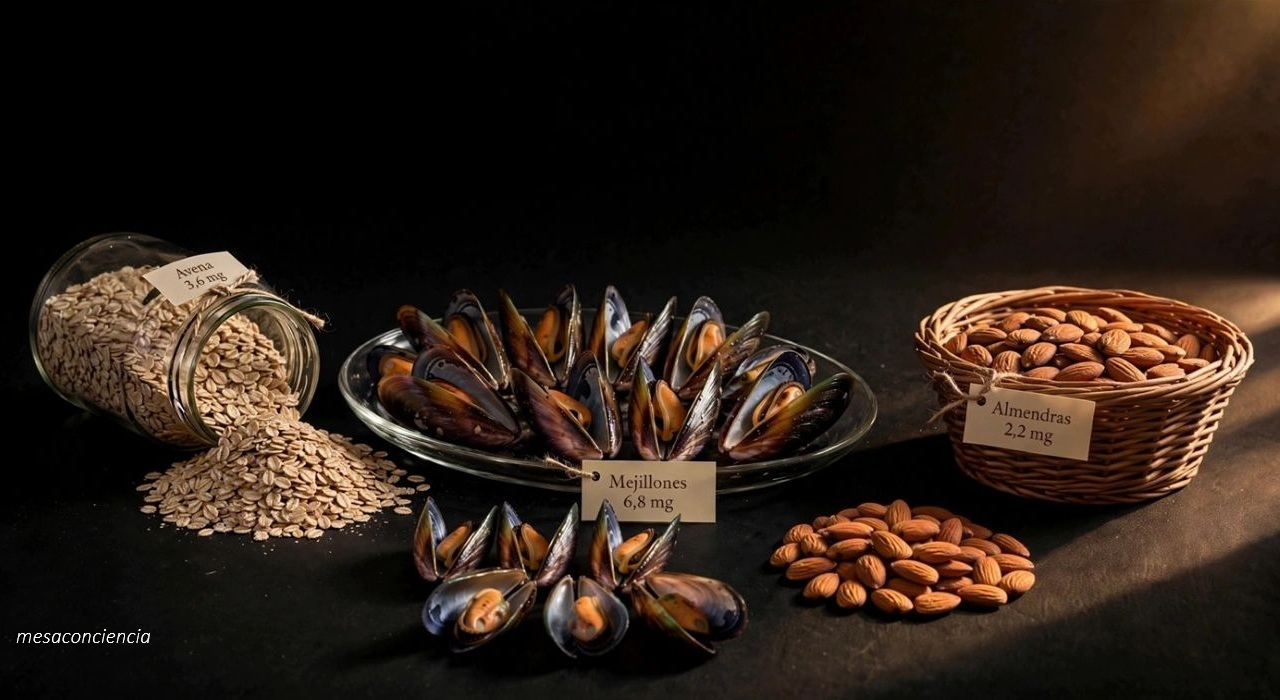
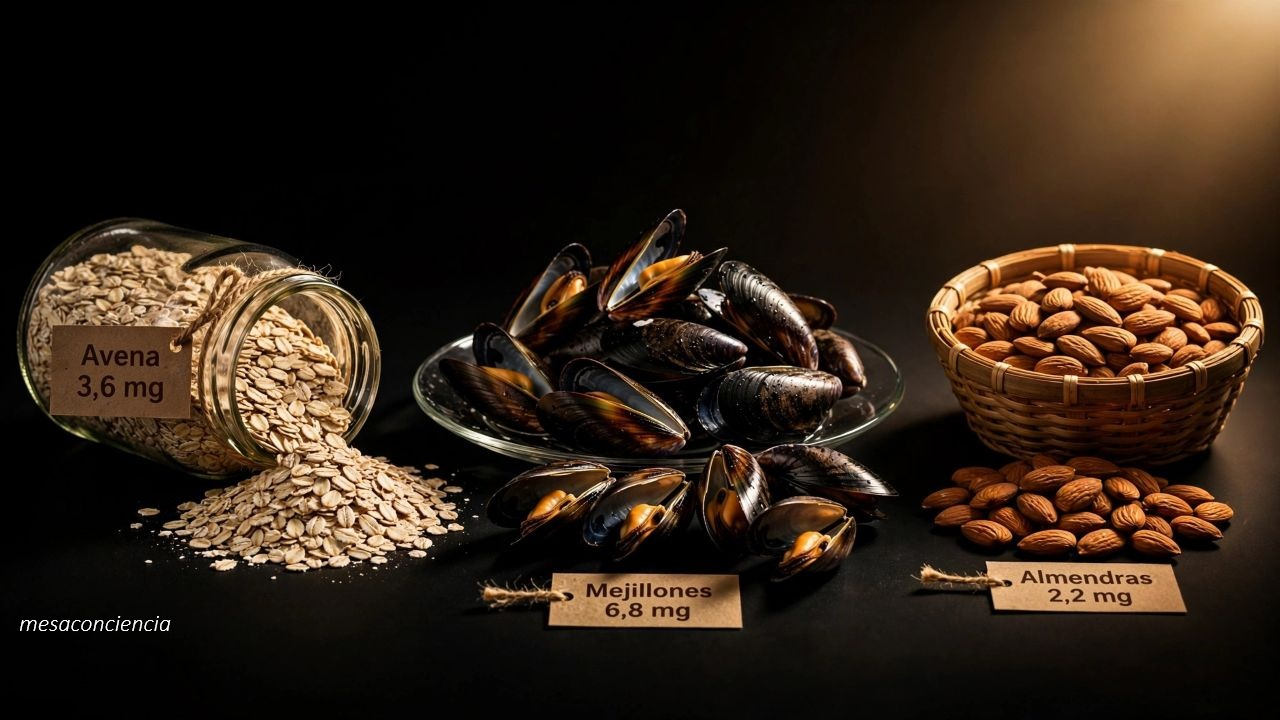
Micronutrientes: fotos de portada + image/imageAlt en minerales y oligoelementos

diff --git a/src/content/nutricion/micronutrientes/minerales/magnesio.md b/src/content/nutricion/micronutrientes/minerales/magnesio.md
@@ -4,6 +4,8 @@ description: "Magnesio: es cofactor de más de 300 enzimas y de cada reacción q
 categoria: "Minerales"
 draft: false
 date: 2026-07-04
+image: "./fotos/magnesio_portada.jpg"
+imageAlt: "Magnesio"
 ---
 
 En 1618, un granjero llamado Henry Wicker descubrió que su ganado se negaba a beber en un manantial cercano a la localidad inglesa de Epsom, en Surrey: el líquido era amargo. Él lo probó de todas formas y comprobó que tenía un efecto laxante potente. En las décadas siguientes, médicos e intelectuales de toda Inglaterra empezaron a viajar hasta Epsom para «tomar las aguas»: a principios del siglo XVIII era uno de los balnearios más concurridos de Gran Bretaña, y su extracto concentrado —la «sal de Epsom»— se convirtió en un remedio casero extendido por toda Europa. Lo que nadie sabía entonces es que el principio activo de ese manantial amargo era el sulfato de magnesio, y que el mismo mineral que provocaba diarrea en dosis altas era el cofactor de más de 300 reacciones enzimáticas del cuerpo humano.

diff --git a/src/content/nutricion/micronutrientes/minerales/cloro.md b/src/content/nutricion/micronutrientes/minerales/cloro.md
@@ -4,6 +4,8 @@ description: "Cloro: es el electrolito que produce el ácido del estómago, tran
 categoria: "Minerales"
 draft: false
 date: 2026-07-04
+image: "./fotos/cloro_portada.jpg"
+imageAlt: "Cloro"
 ---
 
 En 1979, el fabricante estadounidense Syntex reformuló su leche artificial para bebés reduciendo el contenido de cloruro para ajustarse a los límites de sodio que marcaban las guías de la época. Nadie relacionó el cambio con un riesgo. En los meses siguientes, cientos de lactantes alimentados exclusivamente con esa fórmula empezaron a desarrollar un cuadro extraño: retraso del desarrollo, apatía, apetito escaso, alteración del equilibrio ácido-base en sangre. Cuando la FDA investigó, encontró que la fórmula tenía un contenido de cloruro por debajo del mínimo necesario para los bebés. Era el primer y único caso documentado en la historia de una deficiencia de cloro por ingesta dietética insuficiente en humanos.

diff --git a/src/content/nutricion/micronutrientes/minerales/calcio.md b/src/content/nutricion/micronutrientes/minerales/calcio.md
@@ -4,6 +4,8 @@ description: "Calcio: es el mineral más abundante del cuerpo humano, esencial p
 categoria: "Minerales"
 draft: false
 date: 2026-07-03
+image: "./fotos/calcio_portada.jpg"
+imageAlt: "Calcio"
 ---
 
 En 1882, el fisiólogo Sydney Ringer llevaba meses en su laboratorio del University College Hospital de Londres intentando mantener vivos corazones de rana aislados de su cuerpo. La idea era simple: si lograba que un corazón siguiera latiendo en una solución artificial, podría estudiar exactamente qué necesita para funcionar. Lo que no esperaba es que la clave la diera un error de su asistente. El asistente había estado preparando las soluciones directamente del grifo en lugar de usar el destilado prescrito. Los corazones latían mejor con la solución equivocada. Ringer pasó el año siguiente identificando qué tenía el grifo de Londres que el destilado no tenía: calcio.

diff --git a/src/content/nutricion/micronutrientes/minerales/azufre.md b/src/content/nutricion/micronutrientes/minerales/azufre.md
@@ -4,6 +4,8 @@ description: "Azufre: es el tercer mineral más abundante del cuerpo, cuyas nece
 categoria: "Minerales"
 draft: false
 date: 2026-07-04
+image: "./fotos/azufre_portada.jpg"
+imageAlt: "Azufre"
 ---
 
 El olor a ajo recién cortado, el ambiente químico de una peluquería cuando alguien se hace la permanente, el vapor de los géiseres que los romanos asociaban con el inframundo. Todos son compuestos de azufre. Durante siglos, el azufre fue sinónimo de fuego y castigo divino —en la Biblia se llama «azufre y fuego» lo que destruyó Sodoma—, y los alquimistas medievales lo consideraban uno de los tres principios fundamentales de la materia. Lo que nadie anticipó entonces es que ese mismo elemento era también lo que da resistencia al cabello, protege las células del daño oxidativo y participa en el metabolismo de prácticamente todos los órganos del cuerpo.

diff --git a/src/content/nutricion/micronutrientes/oligoelementos/zinc.md b/src/content/nutricion/micronutrientes/oligoelementos/zinc.md
@@ -4,6 +4,8 @@ description: "Zinc: es el segundo oligoelemento más abundante en el cuerpo, ese
 categoria: "Oligoelementos"
 draft: false
 date: 2026-07-03
+image: "./fotos/zinc_portada.jpg"
+imageAlt: "Zinc"
 ---
 
 En 1958, el médico Ananda Prasad recibe en Shiraz, Irán, a un paciente con anemia severa, el bazo enormemente agrandado y apariencia de niño de diez años. El problema es que el paciente tiene 21. Con apenas un metro de altura y genitales infantiles, Prasad busca la causa en la dieta. El hombre come prácticamente una sola cosa: pan sin levadura de trigo integral, cocido sin fermentar, con muy poca proteína animal. En los años siguientes, identificó docenas de casos iguales en zonas rurales de Irán y Egipto. Todos compartían la misma dieta monótona y el mismo cuadro: adultos que habían dejado de crecer en la infancia.

diff --git a/src/content/nutricion/micronutrientes/minerales/sodio.md b/src/content/nutricion/micronutrientes/minerales/sodio.md
@@ -4,6 +4,8 @@ description: "Sodio: es el electrolito extracelular cuyo mínimo son 500 mg/día
 categoria: "Minerales"
 draft: false
 date: 2026-07-04
+image: "./fotos/sodio_portada.jpg"
+imageAlt: "Sodio"
 ---
 
 El 5 de abril de 1930, el Mahatma Gandhi llegó caminando a la costa de Dandi, en el estado de Guyarat, tras 24 días y 385 kilómetros a pie. Se agachó en la orilla, recogió un puñado de sal del suelo húmedo y declaró que los indios tenían derecho a hacer la suya propia. La ley colonial británica hacía ilegal producir o vender sal sin pagar impuestos a la corona. En las semanas siguientes, más de 60.000 personas fueron arrestadas por desafiar el monopolio. La sal —un mineral que cualquier ser humano puede obtener dejando evaporar el mar al sol— era tan valiosa para el Imperio que requería leyes para controlarla.

diff --git a/src/content/nutricion/micronutrientes/minerales/potasio.md b/src/content/nutricion/micronutrientes/minerales/potasio.md
@@ -4,6 +4,8 @@ description: "Potasio: es el electrolito que regula la presión arterial y activ
 categoria: "Minerales"
 draft: false
 date: 2026-07-04
+image: "./fotos/potasio_portada.jpg"
+imageAlt: "Potasio"
 ---
 
 En 1807, el químico inglés Humphry Davy pasó corriente eléctrica por hidróxido de potasio fundido y vio aparecer en el electrodo unas bolitas plateadas que ardían solas al contacto con el aire. Al contacto con la humedad, algunas explotaban. Davy tenía 29 años y acababa de aislar por primera vez un metal a partir de un compuesto mediante electricidad —una técnica que él mismo había inventado—. Lo llamó *potassium*, del inglés *potash*: la ceniza de plantas que los jaboneros hervían en calderos desde hacía siglos sin saber qué contenía. En tres meses, con el mismo método, aislaría también el sodio.

diff --git a/src/content/nutricion/micronutrientes/minerales/fosforo.md b/src/content/nutricion/micronutrientes/minerales/fosforo.md
@@ -4,6 +4,8 @@ description: "Fósforo: es el mineral del ATP, el ADN y las membranas celulares;
 categoria: "Minerales"
 draft: false
 date: 2026-07-04
+image: "./fotos/fosforo_portada.jpg"
+imageAlt: "Fósforo"
 ---
 
 En 1669, el alquimista alemán Hennig Brand llevaba meses convencido de que había dado con el ingrediente secreto de la piedra filosofal: la orina humana. Tras hervir cincuenta cubos, concentrar el residuo y calentarlo durante horas, no obtuvo oro. Lo que salió fue una cera blanca que brillaba sola en la oscuridad. La llamó *phosphorus* —del griego «portador de luz»— y lo mantuvo en secreto durante años. Era el primer elemento químico que un ser humano identificado por nombre descubría deliberadamente —aunque lo que buscaba fuera el oro.

diff --git a/src/content/nutricion/micronutrientes/oligoelementos/yodo.md b/src/content/nutricion/micronutrientes/oligoelementos/yodo.md
@@ -4,6 +4,8 @@ description: "Yodo: es el oligoelemento exclusivo de las hormonas tiroideas T4 y
 categoria: "Oligoelementos"
 draft: false
 date: 2026-07-03
+image: "./fotos/yodo_portada.jpg"
+imageAlt: "Yodo"
 ---
 
 El nombre viene del griego *ioeides* (ἰοειδής): de color violeta. En 1811, el fabricante de salitre Bernard Courtois estaba purificando cenizas de algas marinas cuando añadió ácido sulfúrico en exceso por error. Un vapor violeta oscuro surgió de la mezcla y se condensó en cristales brillantes sobre las superficies frías del laboratorio. Gay-Lussac y Davy estudiaron el sólido en los años siguientes y reconocieron un elemento nuevo. Davy propuso llamarlo *iodine* —yodo, en español— por el color de sus vapores.

diff --git a/src/content/nutricion/micronutrientes/oligoelementos/selenio.md b/src/content/nutricion/micronutrientes/oligoelementos/selenio.md
@@ -4,6 +4,8 @@ description: "Selenio: es el oligoelemento que tu cuerpo integra como aminoácid
 categoria: "Oligoelementos"
 draft: false
 date: 2026-06-30
+image: "./fotos/selenio_portada.jpg"
+imageAlt: "Selenio"
 ---
 
 En los ranchos de Wyoming y Dakota del Sur, en la primera mitad del siglo XX, los ganaderos conocían bien un síndrome sin nombre oficial: caballos y vacas que perdían el pelo y las pezuñas, se volvían ciegos, se tambaleaban y morían. Lo llamaban «mal de los álcalis». Décadas después descubrirían la causa: los suelos de esas praderas acumulaban tanto selenio que las plantas que crecían en ellos lo incorporaban hasta concentraciones tóxicas para los animales que las pastaban.
